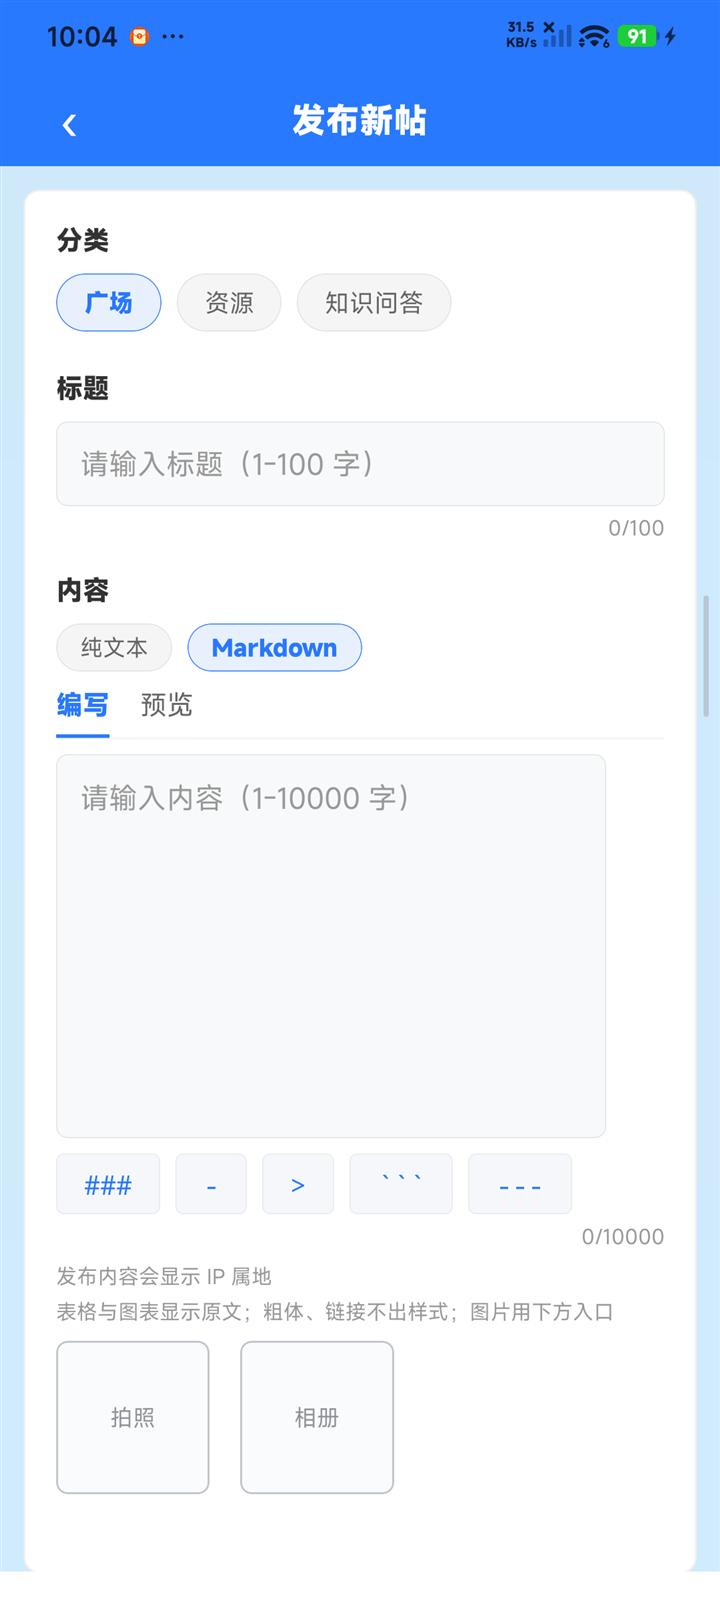
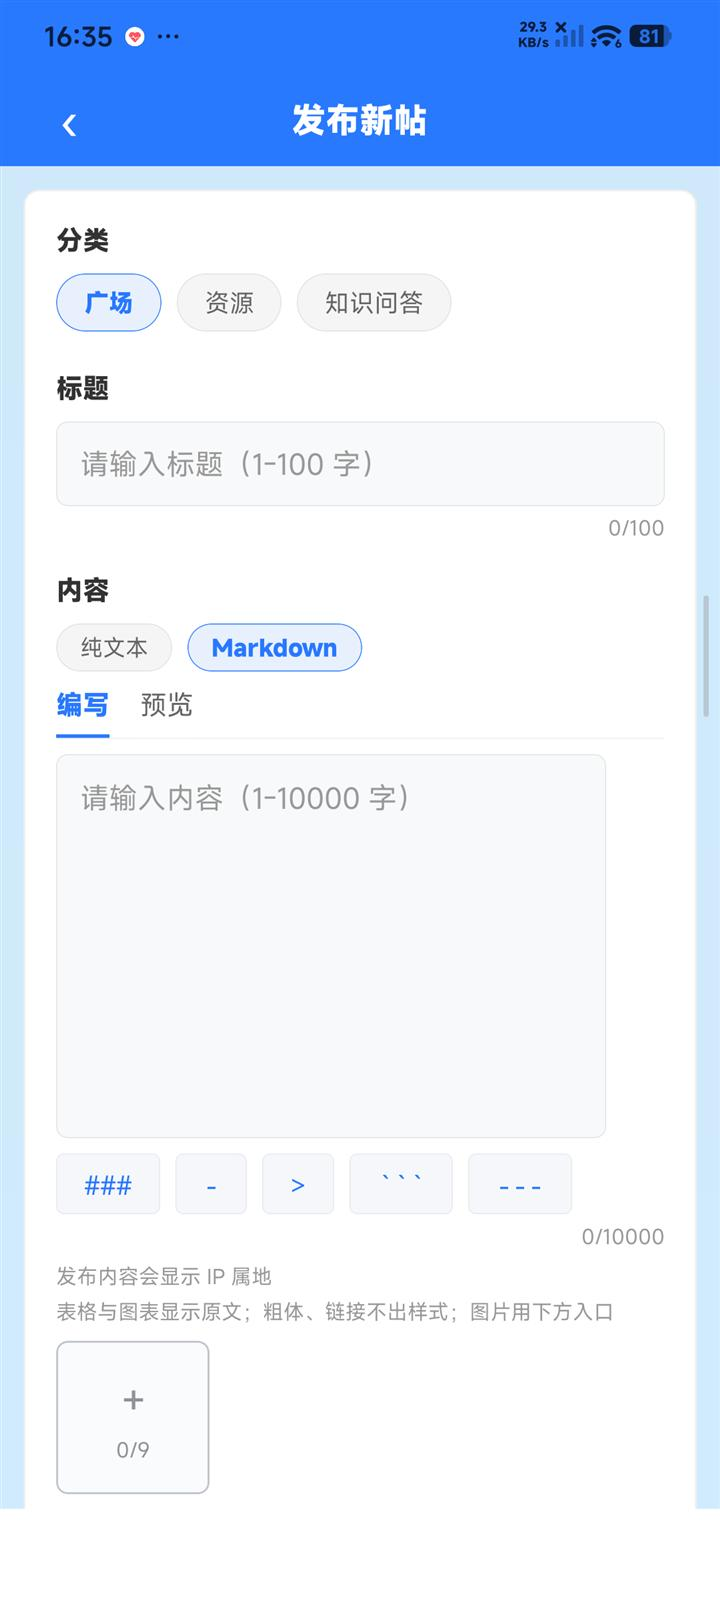
docs(mobile): #1240 P3 ①a 按第二次分支收口重跑（回退后的形态）+ 两条新坑位
绑定树：`2f4f74e1`（含形态回退提交 `f0ef4b8e`）。上一批证据绑 `fa6881e8`，判的是已被
ADR-0025 ⑨ 取代的「拍照 / 相册双入口」形态 ⇒ 按「一次分支收口」整体重取。

- `docs/verification/forum/1261/`：7 份状态 + 机检行 —— 01 纯文本档（无 tab/工具栏/提示行）、
  02 Markdown 档（三者齐现、工具栏恰好五枚）、03 工具栏插入（`E01code` → `### E01code`，
  计数 0→11）、04 预览（源串消失、块渲染）、05 **点 `＋` 弹含两个来源的选择器**
  （拍摄 / 从相册选择 / 取消；旧形态是直达相机）、06 相册入口（`完成(0/9)`、无权限弹窗）、
  07 **上传成功**（缩略图 + `×` + 计数 `1/9`，经维护者授权由 agent 执行写路径）；
  logcat：4743 行 / E 级 106 / app 进程 20 / 关键词命中 0（不写「E=0」）；
  删掉旧的 `05-camera-entry-after-tap.*`
- README：判据表按新形态重写 + 手法改**真实 UI 导航**（首页 → 交流 → 发帖）+ 两条新坑位
  + 未覆盖面（本批之后 ①b 需要人眼的只剩「长按出中文名」一条）
- ADR-0025 已知偏差补第 8 条：重跑结果与两条坑位

两条新坑位（本轮实测，均已复现）：
1. **改 composable 返回类型签名后，内循环增量编译不重编调用方** ⇒ 该页
   `NoSuchMethodError: getOnAddImage()…Function1` + 白屏；必须
   `cli launch app-android --cleanCache true`（= GUI「干净缓存重建」）后才能验。
2. **深链 `cli launch --pagePath` 本轮不可靠**（停在空白 `UniAppActivity`），且**中途 kill
   会把设备上的 `www` 推成半截 ⇒ 整个 app 白屏**（重跑 `hx:run` 才恢复）⇒ 取证走真实
   UI 导航，深链的编译段绝不 kill。

diff --git a/training-app/叉车维修培训学员端跨端应用/docs/verification/forum/1261/README.md b/training-app/叉车维修培训学员端跨端应用/docs/verification/forum/1261/README.md
@@ -1,96 +1,75 @@
-# ① 真机验证 · PR #1261（#1240 P3 论坛输入区形态：共享输入区组件 + 工具栏 + 拍照/相册双入口）
+# ① 真机验证 · PR #1261（#1240 P3 论坛输入区形态：共享输入区组件 + 工具栏 + **单入口图片**）
 
 设备：Xiaomi `23049RAD8C`（`marble`），Android 15，HBuilderX 调试基座（包 `io.dcloud.uniappx`）——
 按移动端 `docs/adr/0008-移动端验收门与证据.md` 的 ① 门（**①a：agent 出证**）留档。
 
-**证据绑定的树**：分支 `feat/1240` 的 head **`dffe7f75`**（`/code-review` 双轴评审的修复提交之后**重跑**）。
-上一版证据绑定 `36ba80c6`；那之后图片流水线被抽成共享 picker、限额收到 `constants/app`、
-档位值改为赋值处归一 —— **触及本页的交互面，故 ①a 按「一次分支收口」重跑一遍**，不跨版本沿用。
+**证据绑定的树**：分支 `feat/1240` 的 `2f4f74e1`（含形态回退提交 `f0ef4b8e`）。这是**第二次分支收口**：上一批证据绑在 `fa6881e8`，判的是**已被 ADR-0025 ⑨ 取代的「拍照 / 相册双入口」形态**，随回退整体作废 ⇒ 本批全部重取。
 
-**接入方式**：**无线调试**（`adb mdns services` 发现 `adb-b32d8398-ul54S3._adb-tls-connect._tcp` @ `192.168.0.212`）。
-设备当时已登录（基座内直接进到 tab 首页），本轮**未触碰任何凭证**。
+**接入方式**：无线调试（`adb mdns services` 发现 `adb-b32d8398-ul54S3._adb-tls-connect._tcp` @ `192.168.0.212`）；设备已登录，本轮**未触碰任何凭证**。
 
-**部署判据（不是门、是①a 的部署事实）**：
-`HX_RUN_DEPLOY deployed=true www=/sdcard/Android/data/io.dcloud.uniappx/apps/__UNI__1C1D180/www=1790039361->1790042002
-pid_after=io.dcloud.uniappx=19848 foreground=io.dcloud.uniappx reason=资源已落到设备…mtime 相对基线前进`；
-`HX_RUN mode=incremental compile=150 deploy=0 total=198 exit=ok`。
+**导航方式**：本轮**不用**深链 `--pagePath`（见坑位 2），走**真实 UI 路径**：首页 → `交流` → `发帖`。
+
+**部署判据（不是门，是 ①a 的部署事实）**：`HX_RUN_DEPLOY deployed=true www=/sdcard/Android/data/io.dcloud.uniappx/apps/__UNI__1C1D180/www=1790064062->1790064702 pid_before=… pid_after=… foreground=io.dcloud.uniappx reason=资源已落到设备…mtime 相对基线前进`；本轮另用 `cli launch app-android --cleanCache true` 做了一次**干净重建**（见坑位 1）。
 
 ## 承载面与判据（不靠肉眼看「像不像」，都可机检）
 
-承载面 = **发帖页 `pages/forum/forum-create.uvue` 的输入区**（形态由共享组件
-`pages/forum/components/forum-markdown-input.uvue` 渲染）。a11y 文本一律取自**未压缩**
-`uiautomator dump`（`--compressed` 会把长 `content-desc` 丢成空串，P2 已实测踩到）。
+承载面 = **发帖页 `pages/forum/forum-create.uvue` 的输入区**（形态由共享组件 `pages/forum/components/forum-markdown-input.uvue` 渲染）。
+a11y 文本一律取自**未压缩** `uiautomator dump`（`--compressed` 会把长 `content-desc` 丢成空串，P2 已实测踩到）。
 
 | # | 判据 | 机检原文 |
 | --- | --- | --- |
-| 1 | **纯文本档不出现 tab / 工具栏 / 边界提示行**（ADR-0025 ⑥-5） | `01-forum-create-text.content-desc.txt`：有 `纯文本` / `Markdown`（数据档位胶囊）与 `拍照` / `相册`，**没有** `编写` / `预览` / `###` / `-` / `&gt;` / ` ``` ` / `---` / 边界提示行 |
-| 2 | 切到 Markdown 档后**三者齐现**：编写\|预览 tab + 工具栏 + 只讲边界的提示行 | `02-forum-create-markdown.content-desc.txt`：多出 `编写` `预览` **与恰好五枚** `###` `-` `&gt;` ` ``` ` `---`，以及 `表格与图表显示原文；粗体、链接不出样式；图片用下方入口` |
-| 3 | **工具栏按钮集 = 本档成员声明集**（无加粗/斜体/链接按钮 —— 本档不做行内渲染） | 同上：五枚即 `SUBSET_MEMBERS_FORUM`（heading / list / quote / code / divider），**没有**任何行内格式按钮 |
-| 4 | **工具栏插入在真机生效**（按钮承诺的语法真被写进正文） | `03-forum-create-toolbar-insert.content-desc.txt`：正文 `text=` 由 `E01code` 变为 **`### E01code`**，计数由 `7/10000` 变为 **`11/10000`**（+4 = `### ` 的长度） |
-| 5 | **编写/预览可切，且预览与发布同源** | `04-forum-create-preview.content-desc.txt`：切「预览」后 `text=` 里 **`### E01code` 整串消失**，块渲染产出 `E01code`（heading 块文本）；工具栏同时收起（只在编写档） |
-| 6 | **图片双入口**（拍照 / 相册各一个直达入口） | `01` / `02` 两份 dump 都含 `拍照` 与 `相册` 两个节点（旧形态是单枚 `＋` 走系统选择器） |
-| 7 | **属地披露未被形态迁移弄丢**（ADR-0045 明确例外） | `01` ~ `04` 四份 dump **都**含 `发布内容会显示 IP 属地` |
-| 8 | **「拍照」直达系统相机、且应用内无权限弹窗**（能力面线索，供 ①b 用） | `05-camera-entry-after-tap.content-desc.txt` + 前台判据：点击后 `mCurrentFocus=Window{… com.android.camera/com.android.camera.OneShotCamera}`，a11y 是相机自己的 UI（`拍摄` / `前后置切换,后置` / `闪光灯，自动状态` / `1.0倍变焦`）—— **没有**出现应用内的权限申请弹窗 |
-| 9 | **logcat**：不写「E = 0」，写实数与相关性 | `logcat.txt`：全量 15284 行 / 带 `E/` 834 行 / **app 自身 tag 73 行**；这 73 行里命中本次改动关键词（forum\|markdown\|toolbar\|textarea\|compose\|input\|picker\|image）的条数 = **0**；逐条形态已列（`No package ID …` 与 `UniDomManager` 批次耗时行，均为运行时既存噪声） |
+| 1 | **纯文本档不出现 tab / 工具栏 / 边界提示行**（ADR-0025 ⑥-5） | `01-forum-create-text.content-desc.txt`：有 `纯文本` / `Markdown`（数据档位胶囊）与 `发布内容会显示 IP 属地`，**没有** `编写` / `预览` / `###` / `-` / `>` / ` ``` ` / `---` / 边界提示行 |
+| 2 | 切到 Markdown 档后**三者齐现**：编写\|预览 tab + 工具栏 + 只讲边界的提示行 | `02-forum-create-markdown.content-desc.txt`：多出 `编写` `预览` **与恰好五枚** `###` `-` `>` ` ``` ` `---`，以及 `表格与图表显示原文；粗体、链接不出样式；图片用下方入口` |
+| 3 | **图片区是单入口**（⑨ 取代 ⑦）：**一个** `＋` 方块 + `n/9` 计数，**没有**「拍照」「相册」两个常驻方块 | `01` / `02` 两份 dump 均为 `＋` + `0/9`；本批**所有** dump 里都没有 `拍照` / `相册` 这两个入口（旧形态的实证留在 git 历史里的上一批证据） |
+| 4 | **工具栏插入在真机生效**（按钮承诺的语法真被写进正文） | `03-forum-create-toolbar-insert.content-desc.txt`：正文 `text=` 由 `E01code` 变为 **`### E01code`**，计数由 `0/10000` 变为 **`11/10000`**（+4 = `### ` 的长度） |
+| 5 | **编写/预览可切，且预览与发布同源** | `04-forum-create-preview.content-desc.txt`：切「预览」后 **`### E01code` 整串消失**，块渲染产出 `E01code`（heading 块文本）；工具栏同时收起（只在编写档） |
+| 6 | **点 `＋` 弹的是「含两个来源的选择器」，不再直达相机**（⑨ 的核心差异） | `05-image-entry-picker.content-desc.txt`：出现 `拍摄` / `从相册选择` / `取消` 三项 —— 旧形态（`sourceType: ['camera']`）是**直达** `com.android.camera/OneShotCamera` |
+| 7 | **相册入口能进，且应用内无权限弹窗** | `06-album-picker.content-desc.txt`：`io.dcloud.uts.dmcbig.mediapicker.PickerActivity`、标题 `选择图片`、右上 `完成(0/9)`（额度 9 与传给 `chooseImage` 的 `count` 一致）；前台窗口是该 picker、**没有**应用内权限申请弹窗 |
+| 8 | **选图 → 回应用 → 上传成功**（①b 的写路径；本轮经维护者授权由 agent 执行） | `07-after-upload.content-desc.txt`：回到应用后缩略图出现（带 `×` 删除钮），计数变 **`1/9`** |
+| 9 | **属地披露未被形态迁移弄丢**（ADR-0045 明确例外） | `01` ~ `04`、`07` 五份 dump **都**含 `发布内容会显示 IP 属地` |
+| 10 | **logcat**：不写「E = 0」，写实数与相关性 | `logcat.txt`：窗口内共 **4743** 行 / `E/` **106** 行 / **app 进程 20 行**；这 20 行里命中本次改动关键词（forum\|markdown\|toolbar\|image\|picker\|upload\|input\|textarea\|chooseImage）的条数 = **0**；逐条形态已列（`UniDomManager` 批次耗时行等运行时既存噪声） |
 
 ## 图片
 
 | 文件 | 说明 |
 | --- | --- |
-| `01-forum-create-text.jpg` | 发帖页**纯文本档**（默认档）—— 可见数据档位胶囊与图片双入口，**无** tab / 工具栏 / 边界提示行 |
-| `02-forum-create-markdown.jpg` | 同一页切到 **Markdown 档** —— 编写\|预览 下划线 tab、五枚语法记号工具栏、边界提示行 |
+| `01-forum-create-text.jpg` | 发帖页**纯文本档** —— 可见数据档位胶囊、**一个 `＋` 方块 + `0/9`**、属地提示；**无** tab / 工具栏 / 边界提示行 |
+| `02-forum-create-markdown.jpg` | 同一页切到 **Markdown 档** —— 编写\|预览 tab、五枚语法记号工具栏、边界提示行 |
 | `03-forum-create-toolbar-insert.jpg` | 点工具栏 `###` 之后的正文（`### E01code`，计数 11/10000） |
 | `04-forum-create-preview.jpg` | 「预览」档 —— 源串 `### ` 不再显示，标题按块渲染 |
-| `05-camera-entry-after-tap.jpg` | 点「拍照」后 —— 前台已切到系统相机（应用内没有权限弹窗） |
+| `05-image-entry-picker.jpg` | 点图片区 `＋` 之后 —— 弹出**含两个来源的选择器**（拍摄 / 从相册选择 / 取消） |
+| `06-album-picker.jpg` | 「从相册选择」之后 —— uni-app x 图片选择器（`完成(0/9)`） |
+| `07-after-upload.jpg` | 选 1 张「完成」后回到应用 —— 缩略图 + `×` + 计数 `1/9`（上传成功） |
 
-> 压缩口径：本机无 WebP 编码器，退 **JPEG q75、宽 720**（5 张 / 合计约 271 KB，均 ≤150 KB）。
+> 压缩口径：本机无 WebP 编码器，退 **JPEG q75、宽 720**（7 张 / 合计约 439 KB，最大 102 KB）。
 
 ## 手法（可复现）
 
 ```powershell
-# 1) 无线调试接入（mDNS 自动发现；旧端口每次都变，别照抄地址）
+# 1) 无线调试接入（mDNS 自动发现；端口每次都变，别照抄地址）
 adb mdns services                       # -> adb-b32d8398-…._adb-tls-connect._tcp  192.168.0.212:<新端口>
-# 2) 部署本分支到真机（真运行，不传 --compile）
-npm run hx:run                          # 机检行 HX_RUN / HX_RUN_DEPLOY
-# 3) 深链到目标页（不必点着导航走）；注意这会触发一次增量编译
-cli.exe launch app-android --project <项目> --deviceId <mDNS transport> --pagePath pages/forum/forum-create
-# 4) 取证：坐标一律取 uiautomator dump 的 bounds 中心，不用截图目测
-adb exec-out uiautomator dump /dev/tty > page.xml     # 未压缩
-adb exec-out screencap -p > page.png
+# 2) 部署本分支到真机（真运行）。改过 composable 返回类型签名时**必须**先清缓存重建（见坑位 1）：
+npm run hx:run
+& "$hbx\cli.exe" launch app-android --project <项目> --deviceId <mDNS transport> --cleanCache true
+# 3) 导航：**不用**深链，走真实 UI（首页 → 交流 → 发帖）；坐标一律取 uiautomator dump 的 bounds 中心
+adb shell uiautomator dump /sdcard/cap.xml ; adb pull /sdcard/cap.xml page.xml   # 未压缩
+adb shell screencap -p /sdcard/cap.png   ; adb pull /sdcard/cap.png page.png
 adb shell "input tap <cx> <cy>; echo TAP_RC=$?"       # 先现测可注入
+adb shell input text E01code ; adb shell input keyevent 111   # 敲字后先收键盘再找工具栏
+# 4) 写路径（本轮由维护者授权）：点 ＋ → 从相册选择 → 点第一格 → 点「完成(1/9)」→ 回应用看缩略图/计数
+# 5) logcat：**先 logcat -c**，再取窗口内的全量
+adb logcat -c ; adb logcat -d > logcat.txt
 ```
 
-**坑位（两轮实测，值得记）**：
-- **软键盘会盖住工具栏** —— 在正文里敲完字后直接找 `###` 的 bounds 会**找不到节点**（a11y 树里没有）。
-  先 `input keyevent 111`（ESC）收键盘再 dump。
-- **深链会重新编译**：`cli launch --pagePath` 之后要等（本轮增量编译 150 秒）才切页，早 dump 只会拿到上一页；
-  用「轮询 a11y 直到文本集合变化」判到位，不要用固定 sleep。
-- **无线调试会话会掉**：手机息屏 / 闲置后 `adb devices` 变空、`mdns services` 也消失；
-  `adb kill-server && adb start-server` 后等几秒即重新发现（不必重新配对）。
+**坑位（本轮实测，比上一批多两条，均已复现）**：
+
+1. **改 composable 的返回类型签名后，内循环增量编译不重编调用方 ⇒ 该页白屏**。实证：`java.lang.NoSuchMethodError: No virtual method getOnAddImage()Lkotlin/jvm/functions/Function1; in class Luni/UNI1C1D180/UseForumImagePickerResult; … at GenPagesForumForumCreate.setup$lambda$13(forum-create.kt:51)` + `navigateTo: fail /pages/forum/forum-create?scope=discussion locked` —— 页面侧仍按**旧签名**（`onAddImage: (String) -> Unit`）编译，而 picker 侧已是 `() -> Unit`。**对策**：`cli launch app-android … --cleanCache true`（= GUI 的「干净缓存重建」）后重跑；`hx:run` 按设计**不做**干净重建 ⇒ 这类签名改动**必须**显式清缓存，否则会误判成「代码坏了」。
+2. **深链 `cli launch --pagePath` 本轮不可靠**：app 会停在**空白的 `UniAppActivity`**（本轮等了 8 分钟未切页）；**且中途 kill 会把设备上的 `www` 推成半截 ⇒ 整个 app 白屏**（重跑一次 `npm run hx:run` 才恢复，实证：`www` mtime `1790062579→1790063449`）。⇒ 取证一律走真实 UI 导航，深链的编译段**绝不 kill**。
+3. **软键盘会盖住工具栏**：在正文里敲完字后直接找 `###` 的 bounds 会**找不到节点**（a11y 树里没有）。先 `adb shell input keyevent 111`（ESC）收键盘再 dump。
+4. **无线调试会话会掉**（手机息屏 / 闲置后 `adb devices` 与 `adb mdns services` **同时**变空）：`adb kill-server` 再 `adb start-server`、等几秒即重新发现，**不必重新配对**。
 
 ## 未覆盖面（如实登记，勿读成「已覆盖」）
 
-1. **回复栏（`forum-detail` 底部）本轮仍未取证**：该环境的论坛**一篇帖子都没有** ——
-   广场（`全部帖`）、知识问答、备考经验三个 tab 逐一实测都渲「还没有帖子，来发第一帖吧」，
-   于是**打不开详情页**。回复栏与发帖表单**共用同一个组件**（本票的设计），故形态本身已由上面四份
-   dump 承重，`useReplyComposer` 的图片域也已由 `utils/forumImagePickerBehavior.test.js` 真执行覆盖；
-   但**回复栏的版面、`≤3` 限额与发送闸门（`canSubmitReply`）仍需 ①b 人工确认**。
-   本轮**没有**为取证去发测试帖（那是对生产论坛的写操作，不在授权范围内）。
-2. **「拍照」拍下之后的那一段未验**：本轮只证到「入口直达系统相机、应用内无权限弹窗」；
-   **按下快门 → 回到应用 → 上传成功**这一段需要人操作（按快门会把照片落到设备、并把它上传到生产后端，
-   属写操作，不在本轮授权内）⇒ 归 **①b**。
-3. **长按中文提示仍无法机检**：`@longpress` 是本仓**首用**（全仓零先例），且按钮位于 `scroll-view` 内
-   （长按与滚动容器的手势冲突是已知问题域）。本轮在 **`dffe7f75`** 上重做的实验：
-   - 稳定性对照（无输入、相隔 4 秒两帧）：差异 **39** 个采样点，bbox `(756,30)-(795,42)`（右上角时钟），基线稳定；
-   - 被测（在 `###` 的精确 bounds `162,1776` 上按住 1.6 秒）：差异 **2553** 个采样点，bbox `(150,30)-(795,1281)`
-     —— 范围**覆盖整页**而幅度极低（bbox 内仅约 2.8% 采样点变化），与「2px 横向滚动带来的重绘」**同形**；
-     而一个居中的 toast 应当是**紧凑、高对比**的一块。⇒ **无法据此判定长按触发与否**（既不判失效、也不判生效）。
-   - 另实测 uvue 的 toast **不产生独立窗口**（已知 toast 前后 `dumpsys window windows` 集合无变化），
-     且**已实测 `adb` 看不见已知 toast**（对照：空标题点「发布」触发的既知 `showToast` 在像素面上有 345 个采样差异，
-     故探针有效、但窗口/无障碍两条路都读不到 toast 文本）。
-   ⇒ **交 ①b 人工长按确认**：按住工具栏任一按钮约 1 秒，应弹出该按钮的中文名
-   （`###`→标题、`-`→列表、`>`→引用、` ``` `→代码块、`---`→分隔线）。具名映射本身已有用例钉住
-   （`utils/markdownToolbarBehavior.test.js` 反向对账组）。
-4. **「我的动态」的回复原文**（本票同批收口的 P2 缺口）同样取不到证 —— 同上，环境里没有帖子 / 回复。
-5. **列表卡片正文预览**（80 字截断）仍直出源串：P2 既定裁定属另一批，本票如实登记为未覆盖面
-   （见移动端 ADR-0025 实施回记 P3 的「已知偏差」）。
+1. **回复栏（`forum-detail` 底部）与「我的动态」的回复原文本轮仍未取证**：两者的形态与发帖页**共用同一个组件**（形态本身已由上面 7 份 dump 承重），但回复栏的**版面**、`≤3` 限额与发送闸门（`canSubmitReply`）仍需人看；「我的动态」的回复原文需要一篇带回复的帖子（本轮列表里已有帖子，但未做写操作发回复 —— 发帖/回复是对生产论坛的**内容**写操作，不在本轮授权内）。
+2. **长按中文提示仍无法机检**（沿用上一批的对照实验：已知 toast 路径在像素面上有 345 个采样差异，而注入的长按 0 差异；uvue 的 toast **不产生独立窗口**、a11y 也读不到）⇒ **交 ①b 人工确认**：按住工具栏任一按钮约 1 秒应弹出其中文名（`###`→标题、`-`→列表、`>`→引用、` ``` `→代码块、`---`→分隔线）。**本批之后，①b 需要人眼的只剩这一条。**
+3. **列表卡片正文预览**（80 字截断）仍直出源串：P2 既定裁定「属另一批」，本段如实登记（见移动端 ADR-0025 实施回记 P3 的「已知偏差」）。

diff --git a/training-app/叉车维修培训学员端跨端应用/docs/adr/0025-论坛正文格式与输入区形态.md b/training-app/叉车维修培训学员端跨端应用/docs/adr/0025-论坛正文格式与输入区形态.md
@@ -163,6 +163,7 @@
 5. **回复栏与「我的动态」回复原文在 ①a 未取证**：取证环境的论坛**一篇帖子都没有**（广场 / 知识问答 / 备考经验三个 tab 实测皆空）⇒ 打不开详情页。**没有**为取证去发测试帖（对生产论坛的写操作不在本轮授权内）。回复栏与发帖表单**共用同一个组件**，故形态本身已由发帖页的四份 a11y 取证承重；**回复栏的版面与限额（≤3）交 ①b 人工确认**。
 6. **「拍照」只验到入口侧（评审修复后重跑新增；⚠ 本条对应的是已被 **⑨** 取代的双入口形态 ⇒ 随 2026-09-22 的回退，本节的 ①a 证据整体作废、按「第二次分支收口」重跑）**：点击「拍照」**直达系统相机**（`mCurrentFocus=…com.android.camera/com.android.camera.OneShotCamera`）且**应用内无权限弹窗**（`manifest.json` 本就没有权限声明，走的是系统相机 app）—— 这证明抽成共享 picker 之后**接线仍在**。**按下快门 → 回应用 → 上传成功**这一段是写操作（照片会上传到生产后端），**归 ①b**。回退后这条判据本身也不再成立（没有「拍照」这个常驻入口），新形态的 ①a 改为「点 `＋` → 系统选择器出现」。
 7. **长按的机检结论在重跑中不变**：稳定性对照（无输入、隔 4 秒两帧）差异 **39** 个采样点；被测（按住 1.6 秒）差异 **2553** 个，但 bbox 覆盖**整页**而幅度极低（bbox 内约 2.8% 采样点变化）—— 与「2px 横向滚动导致的整页重绘」**同形**，而 toast 应是**紧凑高对比**的一块 ⇒ **不足以下结论**，仍交 ①b（判定式见上）。
+8. **回退后的 ①a 已按「第二次分支收口」重跑（2026-09-22，绑 `2f4f74e1`）**：本批判据见 `docs/verification/forum/1261/README.md`（7 份状态 + logcat 实数）。**本轮之后 ①b 需要人眼的只剩「长按出中文名」一条** —— 入口侧（点 `＋` 弹**含两个来源的选择器**）、相册入口、以及**选图 → 回应用 → 上传成功**（经维护者授权由 agent 执行写路径）都已机检；回复栏 / 「我的动态」仍未取证（见上条 5）。**两条新坑位**（已写进该 README）：① **改 composable 的返回类型签名后，内循环增量编译不重编调用方** ⇒ 该页 `NoSuchMethodError: getOnAddImage()…Function1` + 白屏，必须 `cli launch app-android --cleanCache true`（= GUI「干净缓存重建」）后才能验，否则会把「缓存陈旧」误判成「代码坏了」；② **深链 `cli launch --pagePath` 本轮不可靠**（app 停在空白 `UniAppActivity`），**且中途 kill 会把设备上的 `www` 推成半截 ⇒ 整个 app 白屏**（重跑一次 `hx:run` 才恢复）⇒ 取证改走**真实 UI 导航**，深链的编译段**绝不 kill**。
 
 **①a 取证坑位（本轮实测，已记进 `docs/verification/forum/1261/README.md`）**：
 
